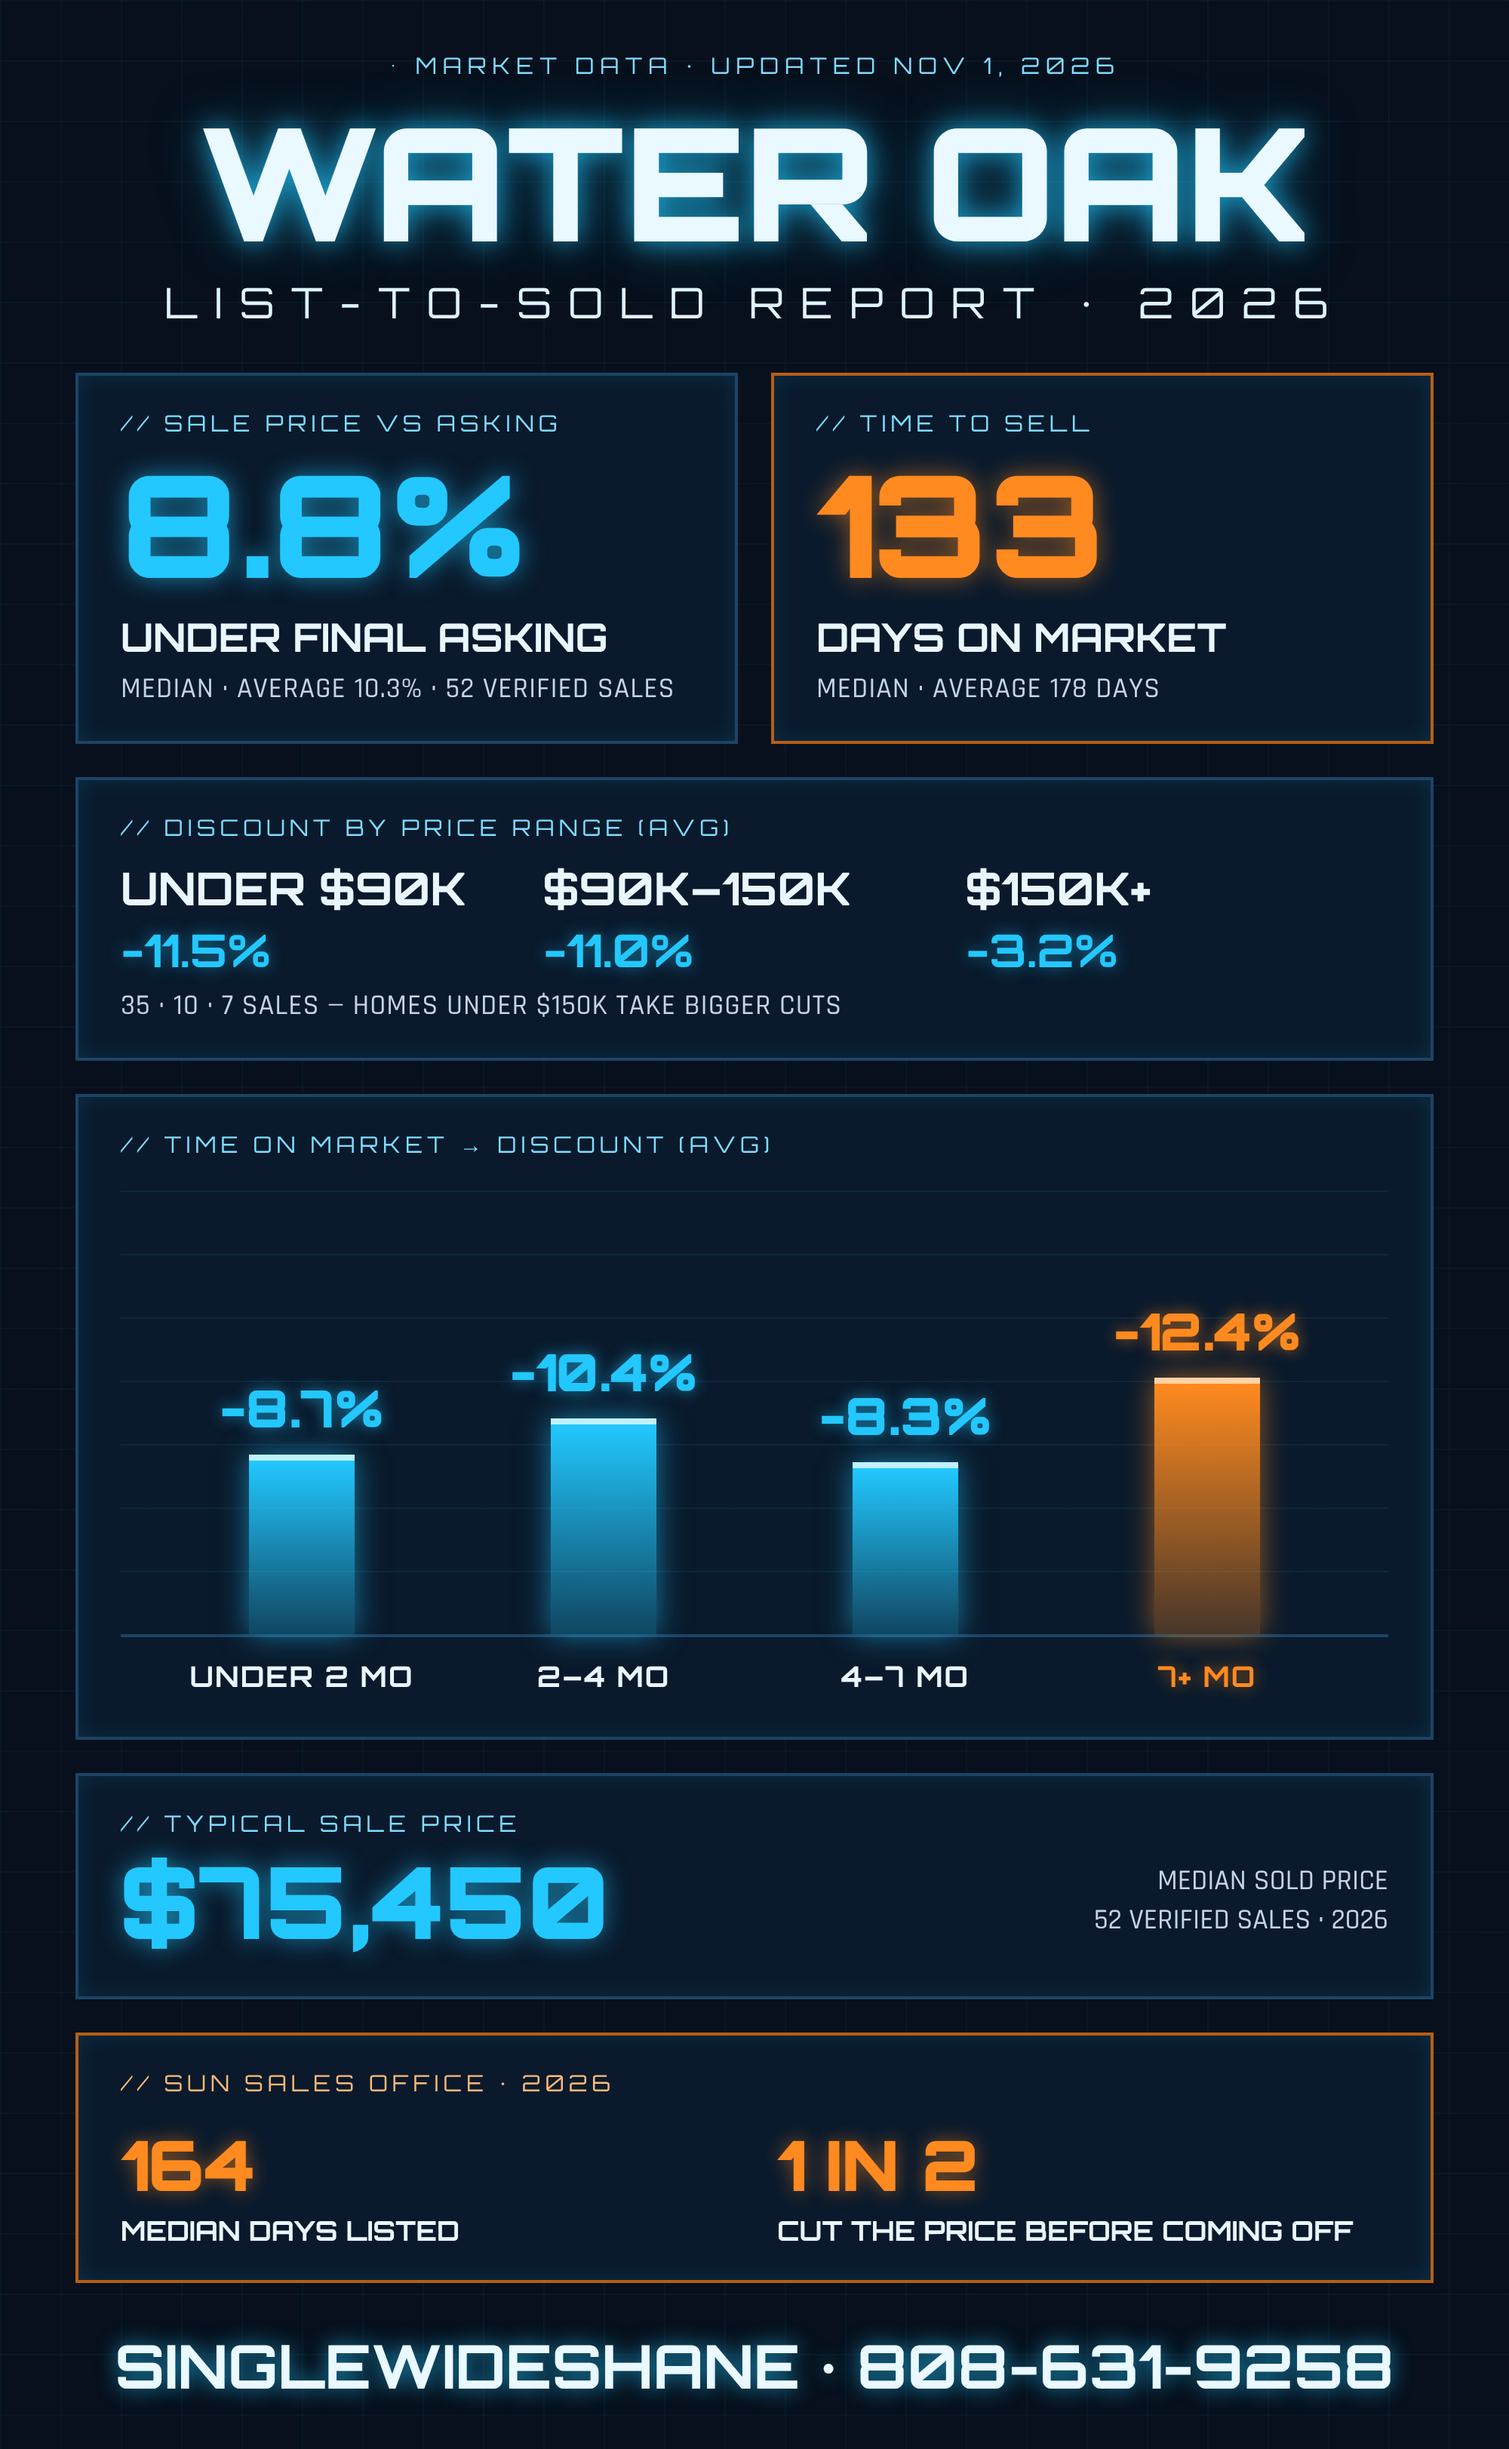
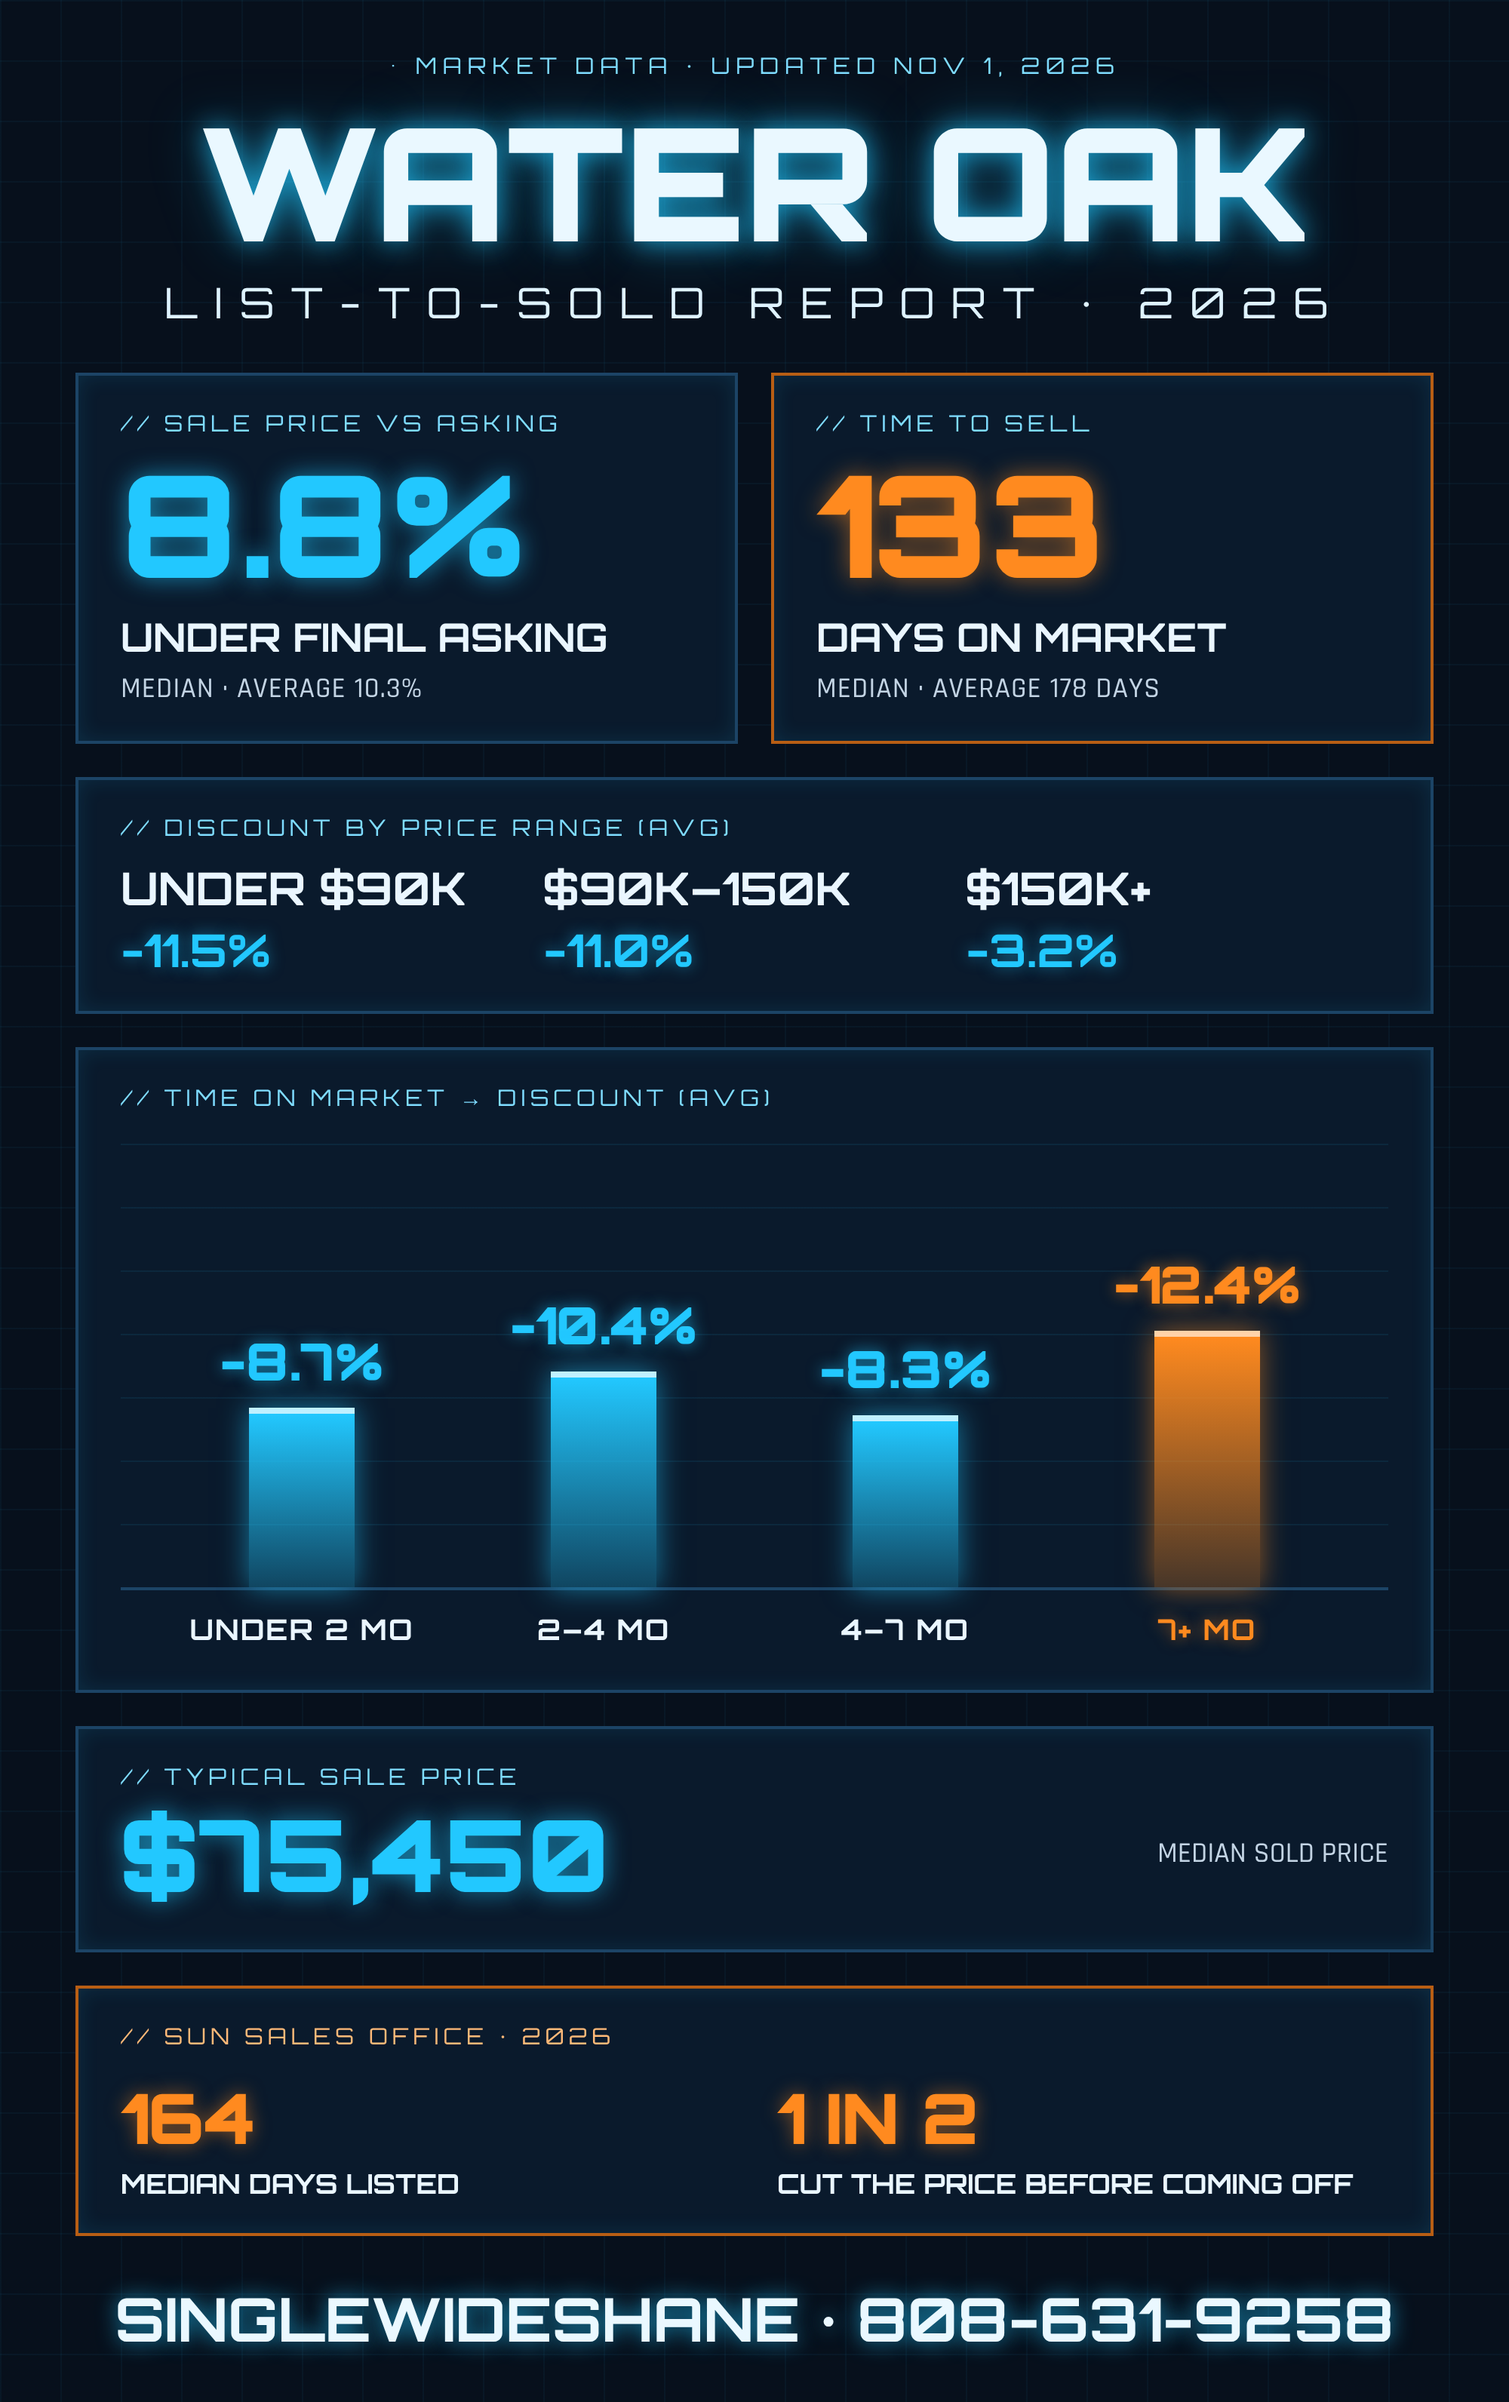
Graphic: remove sales counts
Claude-Session: https://claude.ai/code/session_01Xqe5c4h6QQ4XiJn8tq5gMM

diff --git a/list-to-sold/graphic/report_template.html b/list-to-sold/graphic/report_template.html
@@ -58,18 +58,18 @@ h1{font-family:Orb;font-weight:900;font-size:104px;text-align:center;line-height
 <div class="sub">LIST-TO-SOLD REPORT · 2026</div>
 
 <div class="row">
- <div class="panel"><div class="lab">// SALE PRICE VS ASKING</div><div class="big">8.8%</div><div class="bt">UNDER FINAL ASKING</div><div class="sm">MEDIAN · AVERAGE 10.3% · 52 VERIFIED SALES</div></div>
+ <div class="panel"><div class="lab">// SALE PRICE VS ASKING</div><div class="big">8.8%</div><div class="bt">UNDER FINAL ASKING</div><div class="sm">MEDIAN · AVERAGE 10.3%</div></div>
  <div class="panel or"><div class="lab">// TIME TO SELL</div><div class="big o">133</div><div class="bt">DAYS ON MARKET</div><div class="sm">MEDIAN · AVERAGE 178 DAYS</div></div>
 </div>
 
 <div class="panel"><div class="lab">// DISCOUNT BY PRICE RANGE (AVG)</div>
  <div class="cols"><div><div class="ch">UNDER $90K</div><div class="cv">-11.5%</div></div><div><div class="ch">$90K–150K</div><div class="cv">-11.0%</div></div><div><div class="ch">$150K+</div><div class="cv">-3.2%</div></div></div>
- <div class="sm">35 · 10 · 7 SALES — HOMES UNDER $150K TAKE BIGGER CUTS</div></div>
+ </div>
 
 <div class="panel"><div class="lab">// TIME ON MARKET → DISCOUNT (AVG)</div><div class="vc"><div class="col"><div class="vp">-8.7%</div><div class="vb" style="height:119px"></div><div class="vl">UNDER 2 MO</div></div><div class="col"><div class="vp">-10.4%</div><div class="vb" style="height:143px"></div><div class="vl">2–4 MO</div></div><div class="col"><div class="vp">-8.3%</div><div class="vb" style="height:114px"></div><div class="vl">4–7 MO</div></div><div class="col o"><div class="vp">-12.4%</div><div class="vb" style="height:170px"></div><div class="vl">7+ MO</div></div></div><div style="height:44px"></div></div>
 
 <div class="panel"><div class="lab">// TYPICAL SALE PRICE</div>
- <div class="maker"><div class="w">$75,450</div><div class="r">MEDIAN SOLD PRICE<br>52 VERIFIED SALES · 2026</div></div></div>
+ <div class="maker"><div class="w">$75,450</div><div class="r">MEDIAN SOLD PRICE</div></div></div>
 
 <div class="panel sun"><div class="lab">// SUN SALES OFFICE · 2026</div>
  <div class="sg">
